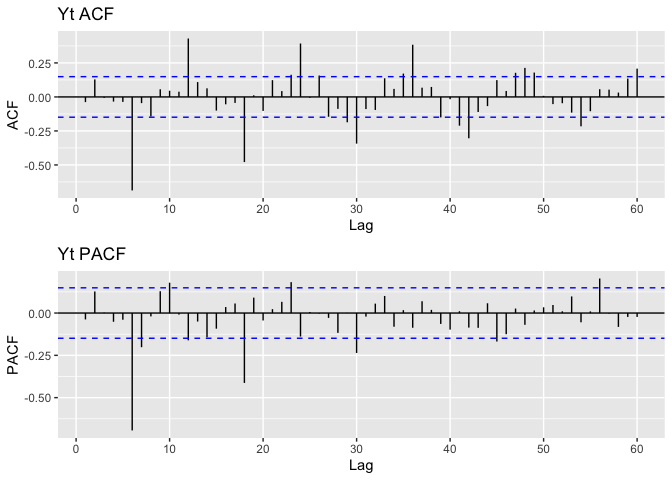
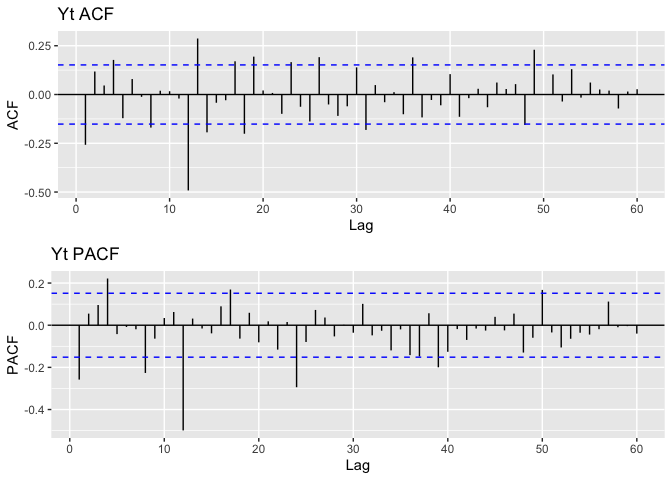
models added forth commit

diff --git a/TimeSeries_Analysis.md b/TimeSeries_Analysis.md
@@ -72,13 +72,13 @@ remove the seasonalities by differencing.
 
 1.3 Seasonal differencing<br/> Take Sixth Difference on
 *X*<sub>*t*</sub> (*X*<sub>*t*</sub> −  &gt; *Y*<sub>*t*</sub>) :
-*Y*<sub>*t*</sub> = *X*<sub>*t*</sub> − *X*<sub>*t* − 6</sub>
+*Y*<sub>*t*</sub> = *X*<sub>*t*</sub> − *X*<sub>*t* − 12</sub>
 
     p1 <- ggAcf(data1$Xt, lag.max = 120)+ ggtitle("Xt ACF")
     p2 <- ggPacf(data1$Xt, lag.max = 120) + ggtitle("Xt PACF")
     #grid.arrange(p1, p2, nrow = 2)
 
-    data1 <- data1 %>% mutate(Yt = c(NA, NA,NA,NA,NA,NA, diff(data1$Xt, lag = 6)))
+    data1 <- data1 %>% mutate(Yt = c(NA, NA,NA,NA,NA,NA,NA, NA,NA,NA,NA,NA, diff(data1$Xt, lag = 12)))
     plot4 <- ggplot() +
       geom_line(data = data1, aes(X, Yt), color = "black") + geom_hline(yintercept = 0, 
                     color = "blue", size=0.7) + labs(title="Plot of Yt, a.k.a Xt with Seasonality Removed",
@@ -94,7 +94,7 @@ remove the seasonalities by differencing.
     ##  Augmented Dickey-Fuller Test
     ## 
     ## data:  na.remove(data1$Yt)
-    ## Dickey-Fuller = -12.632, Lag order = 5, p-value = 0.01
+    ## Dickey-Fuller = -4.3427, Lag order = 5, p-value = 0.01
     ## alternative hypothesis: stationary
 
 1.4 select a model<br/> Augmented Dicky-Fuller test indicates if the
@@ -103,7 +103,7 @@ data correponds to a stationary process, and the above test shows
 are quite convinced that *Y*<sub>*t*</sub> is a stationary process.
 We’ll fit an ARMA model from here.<br/> From PACF, we see significant
 lags at lag4, lag5, lag7, lag9, lag14; from the ACF, we still see a
-seasonal pattern at period of 5. Since a seansonal differencing has
+seasonal pattern at period of 12. Since a seansonal differencing has
 applied here, it’s reasonable to propose a GARCH model here(we’ll
 discuss this in Second Section). But we’ll stick to SARIMA within this
 section.
@@ -116,12 +116,12 @@ section.
 
 1.5 Demo Fit an ARMA model on *Y*<sub>*t*</sub> Based on the ACF and
 PACF, we’ll fit ARMA data on *Y*<sub>*t*</sub>, A.K.A a
-*S**A**R**I**M**A*(*p*, 1, *q*) \* (*P*, 1, *Q*)<sub>6</sub> Model on
+*S**A**R**I**M**A*(*p*, 1, *q*) \* (*P*, 1, *Q*)<sub>12</sub> Model on
 the log transformed of original data(*L*<sub>*t*</sub>). Since there’s
 not an explicit obvious ARMA pattern given in *Y*<sub>*t*</sub>, a few
 options are proposed here and we will later on make a model selection
 based on the Cross Validation results.<br/> Option1 : ARMA(4,1) |||
-Reason: We have two very relevant AR factor ar1 ar3, as well as an MA
+Reason: We have two very relevant AR factor ar1 ar4, as well as an MA
 factor ma1
 
     ## Model 1 summary
@@ -137,94 +137,53 @@ factor ma1
     ## 
     ## Residuals:
     ##      Min       1Q   Median       3Q      Max 
-    ## -0.32018 -0.07904 -0.01353  0.07119  0.35054 
+    ## -0.28422 -0.05903 -0.00145  0.05779  0.29225 
     ## 
     ## Coefficient(s):
     ##      Estimate  Std. Error  t value Pr(>|t|)    
-    ## ar1   0.38979     0.07064    5.518 3.43e-08 ***
-    ## ar2   0.54948     0.13089    4.198 2.69e-05 ***
-    ## ar3  -0.01142     0.11018   -0.104    0.917    
-    ## ar4  -0.36146     0.07241   -4.992 5.98e-07 ***
-    ## ma1  -0.48947     0.01586  -30.867  < 2e-16 ***
-    ## ma2  -0.59197     0.01955  -30.278  < 2e-16 ***
+    ## ar1  -0.90974     0.08309  -10.949   <2e-16 ***
+    ## ar2  -0.93102     0.10915   -8.530   <2e-16 ***
+    ## ar3  -0.08272     0.11405   -0.725   0.4683    
+    ## ar4   0.14985     0.07877    1.902   0.0571 .  
+    ## ma1   0.81883     0.04521   18.112   <2e-16 ***
+    ## ma2   0.95530     0.02482   38.489   <2e-16 ***
     ## ---
     ## Signif. codes:  0 '***' 0.001 '**' 0.01 '*' 0.05 '.' 0.1 ' ' 1
     ## 
     ## Fit:
-    ## sigma^2 estimated as 0.01503,  Conditional Sum-of-Squares = 2.53,  AIC = -223.23
+    ## sigma^2 estimated as 0.01,  Conditional Sum-of-Squares = 1.62,  AIC = -283.09
 
     ## plot the Yt_hat and Yt
-    model1_perf <- data.frame(c(1:180), c(NA, NA,NA,NA,NA,NA,NA, model1$fitted.values))
+    model1_perf <- data.frame(c(1:180), c(NA, NA,NA,NA,NA,NA,NA,NA, NA,NA,NA,NA,NA, model1$fitted.values))
     x <- c("X", "Yt_fitted")
     colnames(model1_perf) <- x
 
-    #plot5 <- ggplot() +
-    ##  geom_line(data = data1, aes(X, model1_pred), color = "black") +
-    #  geom_line(data = data1, aes(X, Yt), color = "red") + ggtitle("model1, Yt red, Yt_fitted black")+
-    #  geom_hline(yintercept = 0, color = "blue", size=0.7) 
+    plot5 <- ggplot() +
+      geom_line(data = model1_perf, aes(X, Yt_fitted), color = "black") +
+      geom_line(data = data1, aes(X, Yt), color = "red") + ggtitle("model1, Yt red, Yt_fitted black")+
+      geom_hline(yintercept = 0, color = "blue", size=0.7) 
       
-    #plot5
+    plot5
+
+![](TimeSeries_Analysis_files/figure-markdown_strict/unnamed-chunk-7-1.png)
 
 1.6 From here we’ll officially comparing a few potential models, to
-avoid the redundance procedures above, we won’t repeat the above process
+avoid the redundant procedures above, we won’t repeat the above process
 for tidyness, but they are essentially similar. Instead, to give better
 interpretation, we’ll leverage the SARIMA and SARIMA.for functions for
 our model validation process. For consistency purpose, we would also
-apply the SARIMA function on it again.<br/><br/>
+apply the SARIMA function on model1 again.<br/><br/>
 
-Model1:
+Model1: *S**A**R**I**M**A*(4, 1, 2)(0, 1, 0)<sub>12</sub>
 
-    sarima.noplot = function(x) {
-      png(tf<-tempfile())
-      out <- sarima.for(x, p=4, d=1, q=2, P=0, D=1, Q=0, S = 12,n.ahead = 12)
-      dev.off()
-      file.remove(tf)
-      return(out)
-    }
-
-    sarima.noplot(data1$Lt)
-
-    ## Warning in log(s2): NaNs produced
-
-    ## Warning in log(s2): NaNs produced
-
-    ## $pred
-    ## Time Series:
-    ## Start = 181 
-    ## End = 192 
-    ## Frequency = 1 
-    ##  [1] 0.6689945 0.7018705 0.6854186 0.6775948 0.6445388 0.6374632 0.6282993
-    ##  [8] 0.6355440 0.6663835 0.6769867 0.6747376 0.7274834
-    ## 
-    ## $se
-    ## Time Series:
-    ## Start = 181 
-    ## End = 192 
-    ## Frequency = 1 
-    ##  [1] 0.06835722 0.08183900 0.10111095 0.12251906 0.14516423 0.16219509
-    ##  [7] 0.17430588 0.18482541 0.19654125 0.20942864 0.22146368 0.23150976
-
-    #pred_value = matrix(0, nrow = 180, ncol = 1)
-    #i = 1
-    ##while(i <= 156){
-    #  data1sub = data1$Lt[data1$X < i + 24]
-    #  # model1
-    #  cvmodel1 <- sarima.for(data1sub, p=4, d=1, q=2, P=0, D=1, Q=0, S = 12, n.ahead = 12)
-    #  pred_value[(24+i):(35+i),] <- exp(cvmodel1$pred)
-    #  i = i + 12
-    #}
-
-    #pred_value <- data.frame(c(1:180),pred_value)
-    #ggplot() + 
-    #  geom_line(data = data1, aes(X, x), color = "black")  +labs(title="Plot of Orginal Time Series", x ="Time", y = "X") + #geom_line(data = pred_value, aes(c.1.180., pred_value), color = "red")
-
+    ## Predictions
     sarima.for(data1$Lt, p=4, d=1, q=2, P=0, D=1, Q=0, S = 12,n.ahead = 12)
 
     ## Warning in log(s2): NaNs produced
 
     ## Warning in log(s2): NaNs produced
 
-![](TimeSeries_Analysis_files/figure-markdown_strict/unnamed-chunk-10-1.png)
+![](TimeSeries_Analysis_files/figure-markdown_strict/unnamed-chunk-8-1.png)
 
     ## $pred
     ## Time Series:
@@ -241,3 +200,75 @@ Model1:
     ## Frequency = 1 
     ##  [1] 0.06835722 0.08183900 0.10111095 0.12251906 0.14516423 0.16219509
     ##  [7] 0.17430588 0.18482541 0.19654125 0.20942864 0.22146368 0.23150976
+
+    ## validation
+
+    ## a helper function to avoid sarima functions generating tons of graph during validation
+    sarima.noplot = function(x0, x1, x2, x3, x4, x5, x6, x7, x8) {
+      png(tf<-tempfile())
+      out <- sarima.for(x0, p=x1, d=x2, q=x3, P=x4, D=x5, Q=x6, S = x7,n.ahead = x8)
+      dev.off()
+      file.remove(tf)
+      return(out)
+    }
+
+    pred_value = matrix(0, nrow = 180, ncol = 1)
+
+    i = 1
+    while(i <= 156){
+      data1sub = data1$Lt[data1$X < i + 24]
+      # model1
+      cvmodel1 <- sarima.noplot(x0 =data1sub, x1=4, x2=1, x3=2, x4=0, x5=1, x6=0, x7 = 12, x8= 12)
+      pred_value[(24+i):(35+i),] <- exp(cvmodel1$pred)
+      i = i + 12
+    }
+
+    ## plot the cross validation result against the true value
+    pred_value <- data.frame(c(1:180),pred_value)
+    ggplot() + 
+      geom_line(data = data1, aes(X, x), color = "black")  +labs(title="Plot of At(dark) versas At_hat(red), by Model1 SARIMA(4,1,2)(0,1,0)12", x ="Time", y = "X") + 
+      geom_line(data = pred_value, aes(c.1.180., pred_value), color = "red")
+
+![](TimeSeries_Analysis_files/figure-markdown_strict/unnamed-chunk-10-1.png)
+
+Model2: *S**A**R**I**M**A*(1, 1, 0)(0, 1, 1)<sub>6</sub>
+
+    ## Predictions
+    sarima.for(data1$Lt, p=1, d=1, q=0, P=0, D=1, Q=1, S = 6,n.ahead = 12)
+
+![](TimeSeries_Analysis_files/figure-markdown_strict/unnamed-chunk-11-1.png)
+
+    ## $pred
+    ## Time Series:
+    ## Start = 181 
+    ## End = 192 
+    ## Frequency = 1 
+    ##  [1] 0.7079299 0.7335497 0.7331298 0.7211477 0.6960043 0.7248602 0.7303324
+    ##  [8] 0.7553687 0.7550433 0.7430459 0.7179049 0.7467605
+    ## 
+    ## $se
+    ## Time Series:
+    ## Start = 181 
+    ## End = 192 
+    ## Frequency = 1 
+    ##  [1] 0.06053351 0.07896733 0.09471306 0.10806727 0.11996188 0.13077575
+    ##  [7] 0.14152461 0.15136421 0.16061921 0.16936659 0.17768441 0.18562889
+
+    pred_value = matrix(0, nrow = 180, ncol = 1)
+
+    i = 1
+    while(i <= 156){
+      data1sub = data1$Lt[data1$X < i + 24]
+      # model1
+      cvmodel1 <- sarima.noplot(x0 =data1sub, x1=1, x2=1, x3=0, x4=0, x5=1, x6=1, x7 = 12, x8= 12)
+      pred_value[(24+i):(35+i),] <- exp(cvmodel1$pred)
+      i = i + 12
+    }
+
+    ## plot the cross validation result against the true value
+    pred_value <- data.frame(c(1:180),pred_value)
+    ggplot() + 
+      geom_line(data = data1, aes(X, x), color = "black")  +labs(title="Plot of At(dark) versas At_hat(red), by Model1 SARIMA(1,1,0)(0,1,1)12", x ="Time", y = "X") + 
+      geom_line(data = pred_value, aes(c.1.180., pred_value), color = "red")
+
+![](TimeSeries_Analysis_files/figure-markdown_strict/unnamed-chunk-12-1.png)
